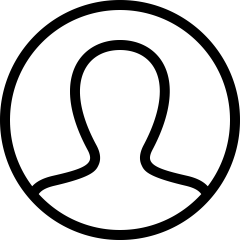
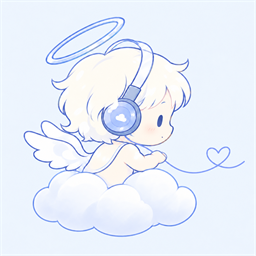
fix: 기본 프로필 이미지가 어디에도 보이지 않던 것
사진을 올린 적 없는 사람의 image_url 은 /default 를 가리킨다. 그 키에 파일은
없지만 백엔드가 기본 이미지를 돌려주는데, 화면이 URL 만 보고 "사진 없음" 으로
끊어 버려 상단바는 사람 아이콘을, 마이페이지는 마스코트를 대신 그렸다.

이제 기본 이미지도 받아 와 그린다. 다만 "본인이 올린 사진" 과는 구분해야
삭제 버튼 노출과 사진 등록/변경 문구가 갈리므로, 스토어에 isDefault 를 둔다 —
화면은 url 로 그리고 isDefault 로 가른다. 삭제 후에도 백엔드가 주는 기본
이미지를 다시 읽어 그 자리에 보여 준다.

기본 이미지 자체도 새 그림으로 교체하고, 앨범 기본 커버를 리소스에 함께
넣어 둔다(아직 참조하는 코드는 없다).

diff --git a/frontend/lib/profile-photo.ts b/frontend/lib/profile-photo.ts
@@ -10,6 +10,17 @@
  * `Authorization` 헤더를 달 수 없으므로 토큰을 붙여 바이트를 받아 온 뒤
  * object URL 로 바꿔 쓴다. 앨범·아티스트 이미지는 공개라 URL 을 그대로 쓴다.
  *
+ * ## 왜 `url` 만으로는 모자란가
+ *
+ * 사진을 올린 적이 없는 사람의 `image_url` 은 `/default` 를 가리키고, 그 키에
+ * 파일은 없지만 백엔드가 기본 이미지를 돌려준다. 예전에는 이 URL 을 보고 그냥
+ * 빈 문자열을 반환했는데, 그래서 **기본 이미지가 어디에도 보이지 않았다** —
+ * 상단바는 사람 아이콘을, 마이페이지는 마스코트를 대신 그렸다.
+ *
+ * 지금은 기본 이미지도 받아 온다. 다만 "본인이 올린 사진"과는 구분해야 한다.
+ * 삭제 버튼 노출과 `사진 등록`/`사진 변경` 문구가 그걸로 갈리기 때문이다.
+ * 그 구분이 `isDefault` 다. **화면은 `url` 로 그리고 `isDefault` 로 가른다.**
+ *
  * ## 왜 스토어를 여기 두는가
  *
  * 사진을 보여 주는 자리가 둘이다 — 상단바의 동그란 아이콘과 마이페이지의 편집
@@ -36,38 +47,53 @@ export const releasePhoto = (url: string) => {
 };
 
 export type ProfilePhotoState = {
-  /** 화면에 바로 넣을 수 있는 URL. 사진이 없으면 빈 문자열이다. */
+  /** 화면에 바로 넣을 수 있는 URL. 받아오지 못했으면 빈 문자열이다. */
   url: string;
+  /** 지금 들고 있는 것이 본인이 올린 사진이 아니라 기본 이미지인가. */
+  isDefault: boolean;
   /** 아직 한 번도 읽지 않았는가. 처음 그릴 때 깜빡임을 막는 데 쓴다. */
   loaded: boolean;
 };
 
 export const profilePhotoStore = createStore<ProfilePhotoState>({
   url: '',
+  isDefault: true,
   loaded: false,
 });
 
 /** 늦게 도착한 응답이 새 사진을 덮지 않게 한다. */
 let readToken = 0;
 
-const put = (url: string) => {
+const put = (url: string, isDefault: boolean) => {
   const previous = profilePhotoStore.get().url;
   if (previous !== url) releasePhoto(previous);
-  profilePhotoStore.set({ url, loaded: true });
+  profilePhotoStore.set({ url, isDefault, loaded: true });
 };
 
+type Photo = { url: string; isDefault: boolean };
+
 /** 지금 저장된 사진을 읽어 온다. 화면에 바로 넣을 수 있는 URL 이다. */
-const fetchPhoto = async (signal?: AbortSignal): Promise<string> => {
+const fetchPhoto = async (signal?: AbortSignal): Promise<Photo> => {
   const user = signedIn();
-  if (!user) return mupidService.readPhoto();
+  // 체험 세션은 토큰이 없다. 기본 이미지는 비공개 경로라 받아올 수 없으므로
+  // 브라우저에 저장한 사진만 본다. 그것도 없으면 화면이 대체 그림을 그린다.
+  if (!user) {
+    const stored = await mupidService.readPhoto();
+    return { url: stored, isDefault: !stored };
+  }
 
   const info = await api.user.me(signal);
   const url = info?.image_url ?? '';
-  // 기본 이미지를 가리키면 "사진 없음" 이다. 화면은 마스코트를 보여준다.
-  if (!url || url.endsWith(DEFAULT_KEY)) return '';
+  if (!url) return { url: '', isDefault: true };
 
+  // `/default` 키에도 받아올 것이 있다 — 백엔드가 기본 이미지를 돌려준다.
+  // 그래서 여기서 끊지 않고 똑같이 받아 오되, 올린 사진과 구분만 해 둔다.
+  const isDefault = url.endsWith(DEFAULT_KEY);
   const bytes = await api.storage.image(url, signal);
-  return URL.createObjectURL(new Blob([bytes], { type: 'image/*' }));
+  return {
+    url: URL.createObjectURL(new Blob([bytes], { type: 'image/*' })),
+    isDefault,
+  };
 };
 
 export const profilePhoto = {
@@ -75,13 +101,13 @@ export const profilePhoto = {
   async refresh(signal?: AbortSignal): Promise<void> {
     const mine = ++readToken;
     try {
-      const url = await fetchPhoto(signal);
+      const photo = await fetchPhoto(signal);
       // 그 사이 저장·삭제·계정 변경이 있었으면 지금 읽은 쪽이 낡았다.
       if (mine !== readToken) {
-        releasePhoto(url);
+        releasePhoto(photo.url);
         return;
       }
-      put(url);
+      put(photo.url, photo.isDefault);
     } catch (error) {
       if (mine === readToken) profilePhotoStore.set({ loaded: true });
       throw error;
@@ -94,20 +120,29 @@ export const profilePhoto = {
     if (!user) {
       await mupidService.savePhoto(dataUrl);
       readToken += 1;
-      put(dataUrl);
+      put(dataUrl, false);
       return;
     }
     await api.storage.uploadProfileImage(user.user_id, blob);
     readToken += 1;
-    put(URL.createObjectURL(blob));
+    put(URL.createObjectURL(blob), false);
   },
 
   async remove(): Promise<void> {
     const user = signedIn();
-    if (!user) await mupidService.removePhoto();
-    else await api.storage.deleteProfileImage(user.user_id);
+    if (!user) {
+      await mupidService.removePhoto();
+      readToken += 1;
+      put('', true);
+      return;
+    }
+    await api.storage.deleteProfileImage(user.user_id);
     readToken += 1;
-    put('');
+    put('', true);
+    // 지운 자리에는 백엔드가 기본 이미지를 준다. 다시 읽어 그 자리에서 보여
+    // 준다. 여기서 실패해도 삭제 자체는 끝났으므로 예외를 올리지 않는다 —
+    // 올리면 호출부가 "삭제하지 못했어요" 를 띄운다.
+    await profilePhoto.refresh().catch(() => {});
   },
 
   /** 로그아웃할 때 화면에서 지운다. 다음 사람에게 앞사람 사진이 보이면 안 된다. */
@@ -115,7 +150,7 @@ export const profilePhoto = {
     readToken += 1;
     const previous = profilePhotoStore.get().url;
     releasePhoto(previous);
-    profilePhotoStore.set({ url: '', loaded: false });
+    profilePhotoStore.set({ url: '', isDefault: true, loaded: false });
   },
 
   /** 지금 어디에 저장되는가. 화면이 안내 문구에 쓴다. */

diff --git a/frontend/components/mupid/profile-photo.tsx b/frontend/components/mupid/profile-photo.tsx
@@ -11,6 +11,9 @@ const EDGE = 256;
 
 export function ProfilePhoto() {
   const photo = useStore(profilePhotoStore, (s) => s.url);
+  // 기본 이미지도 `photo` 에 담겨 온다. "본인이 올린 사진이 있는가" 는 이걸로
+  // 판단해야 한다 — 삭제 버튼과 등록·변경 문구가 여기서 갈린다.
+  const mine = useStore(profilePhotoStore, (s) => !s.isDefault);
   const [message, setMessage] = useState('');
   const [busy, setBusy] = useState(true);
   const input = useRef<HTMLInputElement>(null);
@@ -29,11 +32,12 @@ export function ProfilePhoto() {
       });
     return () => abort.abort();
   }, [account]);
-  return <div className={`profile-photo-editor ${photo ? 'has-photo' : ''}`}>
+  return <div className={`profile-photo-editor ${mine ? 'has-photo' : ''}`}>
     {/* 눌러서 바꾸는 자리라는 걸 알 수 있게 사진 위에 카메라 배지를 얹는다. */}
-    <button type="button" className="profile-photo-pick" aria-label={photo ? '프로필 사진 바꾸기' : '프로필 사진 등록하기'} onClick={() => input.current?.click()} disabled={busy}>
+    <button type="button" className="profile-photo-pick" aria-label={mine ? '프로필 사진 바꾸기' : '프로필 사진 등록하기'} onClick={() => input.current?.click()} disabled={busy}>
       <span className="profile-photo-frame">
-        {photo ? <img src={photo} alt="내 프로필 사진" width={116} height={116} /> : <MupidMascot size={104} alt="기본 프로필" />}
+        {/* 기본 이미지도 받아와 그린다. 못 받아왔을 때만 마스코트로 떨어진다. */}
+        {photo ? <img src={photo} alt={mine ? '내 프로필 사진' : '기본 프로필'} width={116} height={116} /> : <MupidMascot size={104} alt="기본 프로필" />}
       </span>
       <span className="profile-photo-badge" aria-hidden="true"><Camera /></span>
     </button>
@@ -61,9 +65,9 @@ export function ProfilePhoto() {
     }} />
     <div className="profile-photo-actions">
       <button className="secondary-button profile-photo-main" disabled={busy} onClick={() => input.current?.click()}>
-        <Camera />{busy ? '저장 중…' : photo ? '사진 변경' : '사진 등록'}
+        <Camera />{busy ? '저장 중…' : mine ? '사진 변경' : '사진 등록'}
       </button>
-      {photo && <button className="profile-photo-remove" disabled={busy} onClick={async () => { setBusy(true); try { await profilePhoto.remove(); setMessage('기본 프로필로 변경했어요.'); } catch { setMessage('삭제하지 못했어요. 다시 시도해 주세요.'); } finally { setBusy(false); } }}>
+      {mine && <button className="profile-photo-remove" disabled={busy} onClick={async () => { setBusy(true); try { await profilePhoto.remove(); setMessage('기본 프로필로 변경했어요.'); } catch { setMessage('삭제하지 못했어요. 다시 시도해 주세요.'); } finally { setBusy(false); } }}>
         <Trash2 />삭제
       </button>}
     </div>

diff --git a/frontend/components/mupid-app.tsx b/frontend/components/mupid-app.tsx
@@ -113,6 +113,7 @@ function LoadedMupidApp({ bootstrap }: { bootstrap: Bootstrap }) {
   const m = useMupid(bootstrap);
   const [accountOpen, setAccountOpen] = useState(false);
   const photo = useStore(profilePhotoStore, s => s.url);
+  const ownPhoto = useStore(profilePhotoStore, s => !s.isDefault);
   const accountRef = useRef<HTMLDivElement>(null);
   const accountButton = useRef<HTMLButtonElement>(null);
   useEffect(() => { setAccountOpen(false); }, [m.page]);
@@ -188,7 +189,10 @@ function LoadedMupidApp({ bootstrap }: { bootstrap: Bootstrap }) {
             </form>
             <div className="nav-account" ref={accountRef}>
               <button ref={accountButton} className="nav-avatar" aria-label={m.demoSession ? '내 계정 메뉴' : '로그인'} aria-expanded={accountOpen} aria-controls="nav-account-panel" disabled={!m.authReady} onClick={() => m.demoSession ? setAccountOpen(value => !value) : m.openLogin()}>
-                {m.demoSession ? photo ? <img src={photo} alt="내 프로필" /> : <UserRound size={22} aria-hidden="true" /> : <LogIn size={22} />}
+                {/* 사진을 올리지 않았으면 `photo` 에 기본 이미지가 담겨 온다.
+                    사람 아이콘은 그것마저 없을 때 — 토큰이 없는 체험 세션이나
+                    조회 실패 — 의 마지막 대비책이다. */}
+                {m.demoSession ? photo ? <img src={photo} alt={ownPhoto ? '내 프로필' : '기본 프로필'} /> : <UserRound size={22} aria-hidden="true" /> : <LogIn size={22} />}
               </button>
               {accountOpen && <div id="nav-account-panel" className="nav-account-panel">
                 <button onClick={() => { setAccountOpen(false); m.go('profile'); }}>마이페이지</button>

diff --git a/api/src/main/java/com/osundosun/mupid/api/user/service/UserImageServiceImpl.java b/api/src/main/java/com/osundosun/mupid/api/user/service/UserImageServiceImpl.java
@@ -42,8 +42,13 @@ public class UserImageServiceImpl implements UserImageService, StorageImageServi
      * 프로필 사진 조회 URL.
      *
      * 사진을 올린 적이 없으면 `default` 키를 가리킨다. 그 키에는 파일이 없고
-     * `handleNoImageData` 가 기본 이미지를 돌려주므로, 화면은 null 검사 없이
-     * 이 URL 을 그대로 `<img src>` 에 넣으면 된다.
+     * `handleNoImageData` 가 기본 이미지를 돌려주므로, **항상 받아올 것이 있는
+     * URL 이다.** 화면은 null 검사 없이 그대로 쓰면 된다.
+     *
+     * 다만 `<img src>` 에 바로 걸 수는 없다 — PROFILE 은 공개 경로가 아니라
+     * (`SecurityConfig`) 토큰이 있어야 하고 `<img>` 는 헤더를 달지 못한다.
+     * 화면은 받아 온 바이트를 object URL 로 바꿔 쓴다
+     * (`frontend/lib/profile-photo.ts`).
      */
     @Override
     @Transactional(readOnly = true)
